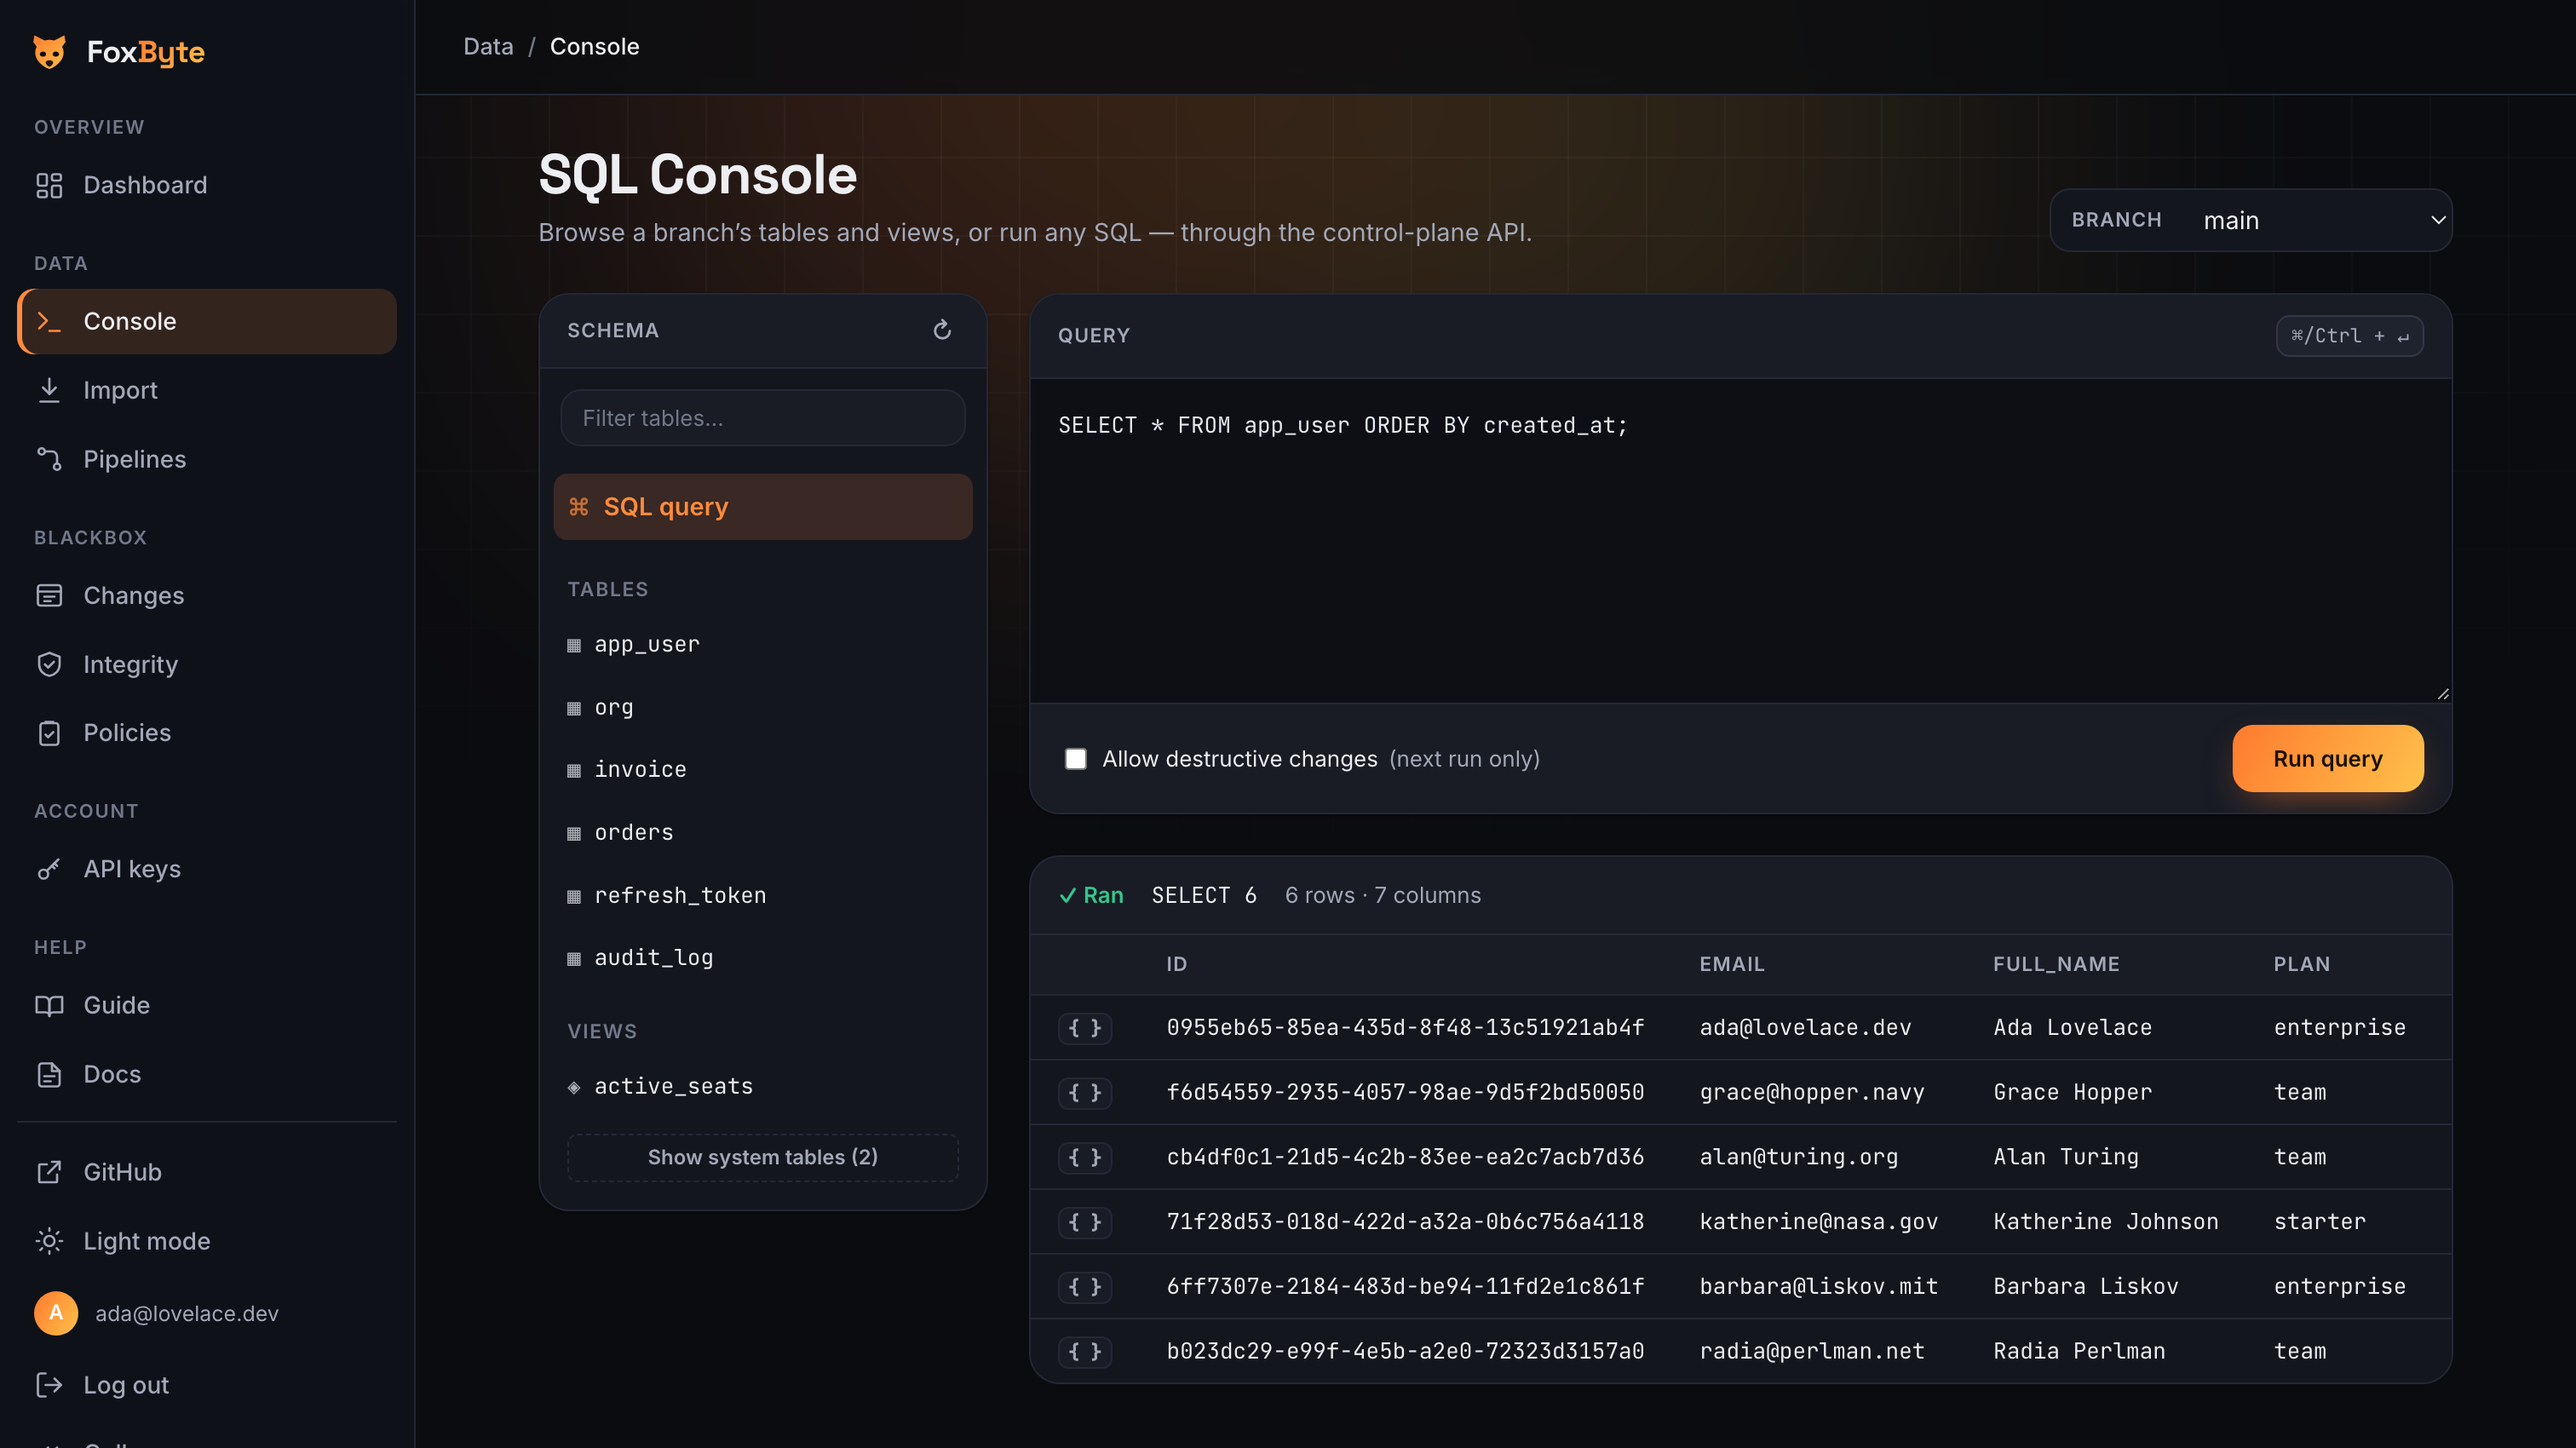
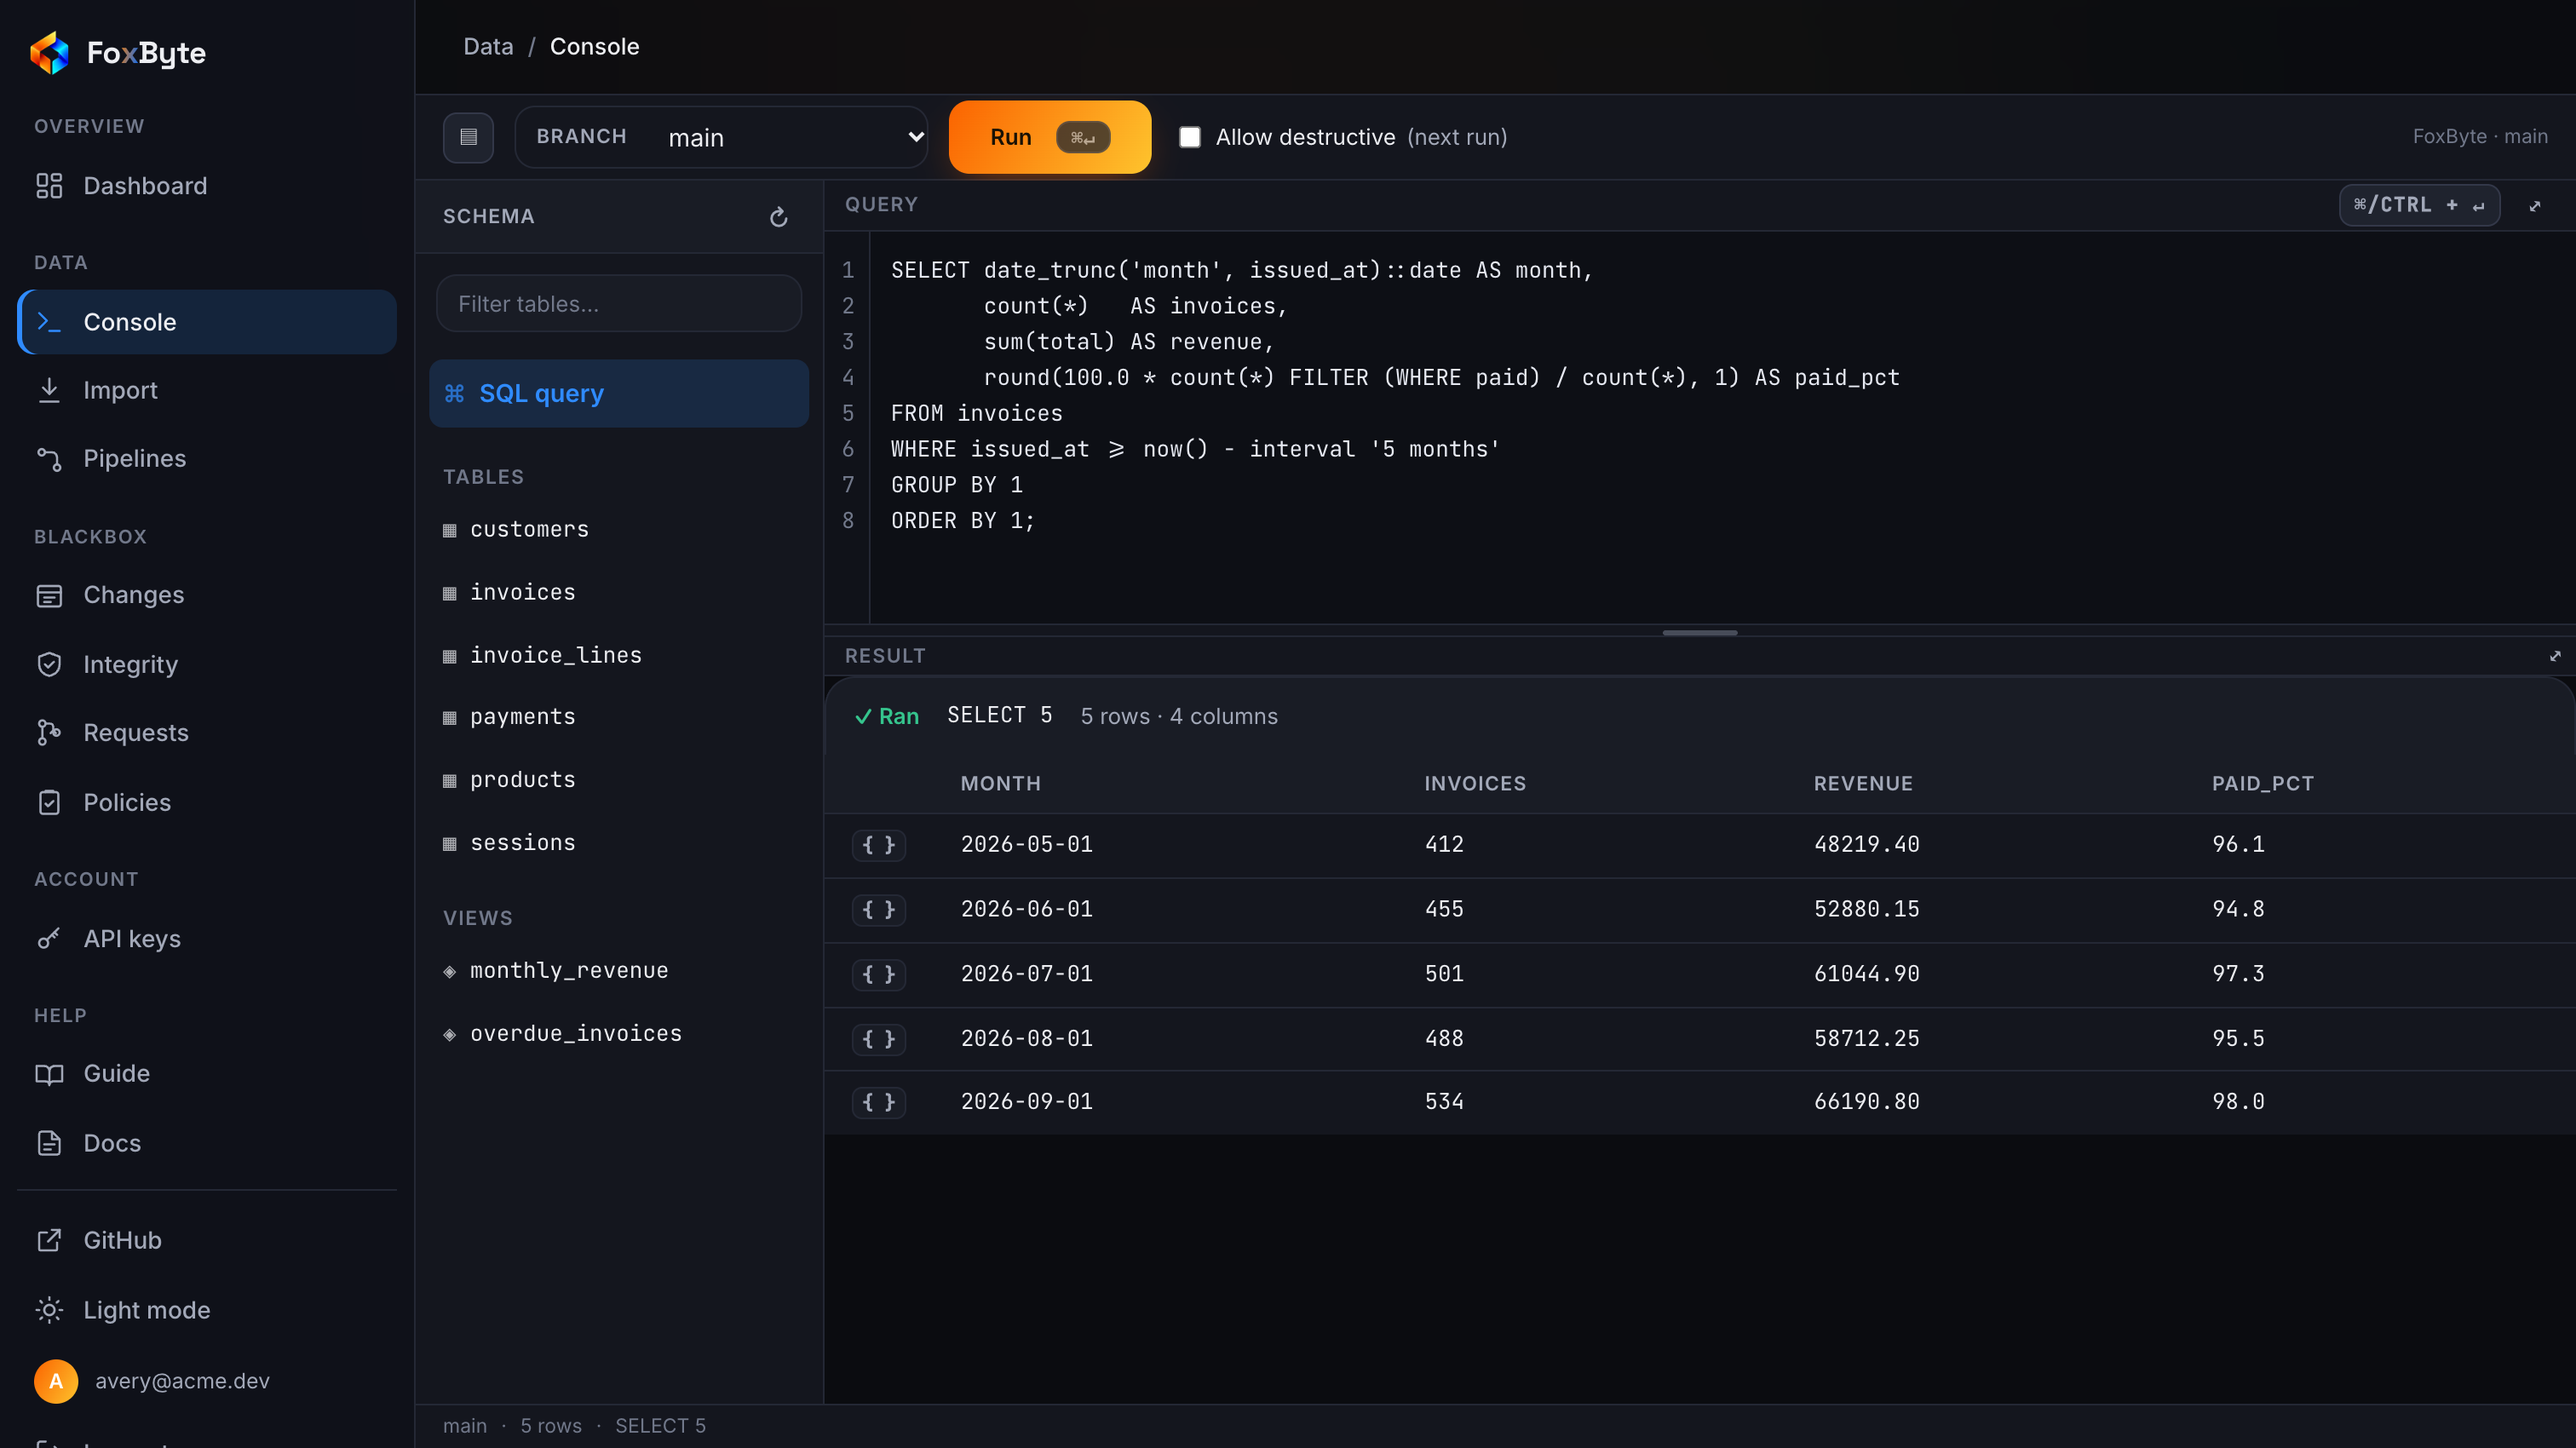
docs: retake the landing, dashboard and console screenshots
They still showed the fox-head mark and the orange-accented UI of two
weeks ago, which after the logo and palette changes is the first thing a
visitor would have seen and the first thing that would have looked
wrong. The landing page is new to the README: it is the product's front
door and was not pictured at all, so it goes full width above the three
app pages rather than squeezing a fourth column into the table.

Sample data, as these have always been: a fresh install has one empty
branch, which makes a dull picture. web/dist is served with a canned
control plane behind it, answering the half-dozen endpoints these pages
call with literals.

The console is driven rather than loaded, because it is only worth a
picture with a query run in it, and that rules out a plain
--screenshot --virtual-time-budget: it takes its shot before any timer
of ours has fired, which is why two attempts came back with the default
`SELECT version();` and an empty result pane. The capture uses
Playwright, already a dev dependency here, launched with
channel: 'chrome' so it needs no extra browser download — it sets the
theme before first paint, fills the editor, presses Run and waits for
the first result cell.

Same geometry as the set they replace: dark, 1512 logical pixels at 2x,
so 3024px files.

ledger.png is deliberately NOT retaken — it was not asked for, and
recapturing it needs the Blackbox endpoints canned too. It is now the
one image in that table still showing the old mark, and
[…]

diff --git a/docs/screenshots/README.md b/docs/screenshots/README.md
@@ -4,16 +4,34 @@ These images are referenced by the top-level `README.md`.
 
 | File | Page | How to reach it |
 | --- | --- | --- |
+| `landing.png` | the public landing page | `/`, signed out |
 | `dashboard.png` | Ops dashboard | after login (default landing) |
 | `ledger.png` | Blackbox | **Changes** in the sidebar |
 | `console.png` | SQL console | **Console** in the sidebar |
 
-Captured 21 Sep 2026 against the FoxByte theme, in the dark theme, at 1512
-logical pixels wide with a device pixel ratio of 2 (so ~3024px files, which is
-what looks right on GitHub). The data in them is sample data, not a real
-install: the pages were served by the dev server with a canned control plane
-behind it, because screenshots of a fresh install show one empty branch.
+`landing.png`, `dashboard.png` and `console.png` were captured 4 October 2026 on
+the new logo and palette. **`ledger.png` was not** — it is from 21 September and
+still shows the fox-head mark and the orange accent, so it is the odd one in the
+table until it is retaken.
 
-To recapture from a real install, start the stack (`fox start`), open
+All of them: dark theme, 1512 logical pixels wide at a device pixel ratio of 2,
+so ~3024px files, which is what looks right on GitHub.
+
+The data is sample data, not a real install: a fresh install has one empty
+branch, which makes a dull picture. The pages are served from `web/dist` with a
+canned control plane behind them — a script that answers `/auth/me`,
+`/api/status`, `/api/branches`, `/api/backups`, the branch admins endpoint and
+the query endpoint with literals, and falls back to `index.html` so the app's
+own routing works.
+
+The console is driven rather than merely loaded, because it is only worth a
+picture with a query run in it. That rules out a plain
+`--screenshot --virtual-time-budget`, which takes its shot before any timer of
+ours has fired: the capture uses Playwright (already a dev dependency, launched
+with `channel: 'chrome'` so it needs no extra browser download) to set the theme
+before first paint, fill the editor, press **Run** and wait for the first result
+cell.
+
+To recapture from a real install instead, start the stack (`fox start`), open
 **https://localhost:8080**, sign in, and screenshot each page at those exact
 names — PNG, ~1400px wide or more.

diff --git a/README.md b/README.md
@@ -28,6 +28,8 @@ The command-line tool is **`fox`**. Everything below is a `fox …` command.
 The web console is served by the engine itself at **https://localhost:8080** — no
 separate dev server to run.
 
+![The FoxByte landing page](docs/screenshots/landing.png)
+
 | Ops dashboard | Blackbox | SQL console |
 | --- | --- | --- |
 | ![Dashboard](docs/screenshots/dashboard.png) | ![Blackbox](docs/screenshots/ledger.png) | ![Console](docs/screenshots/console.png) |
